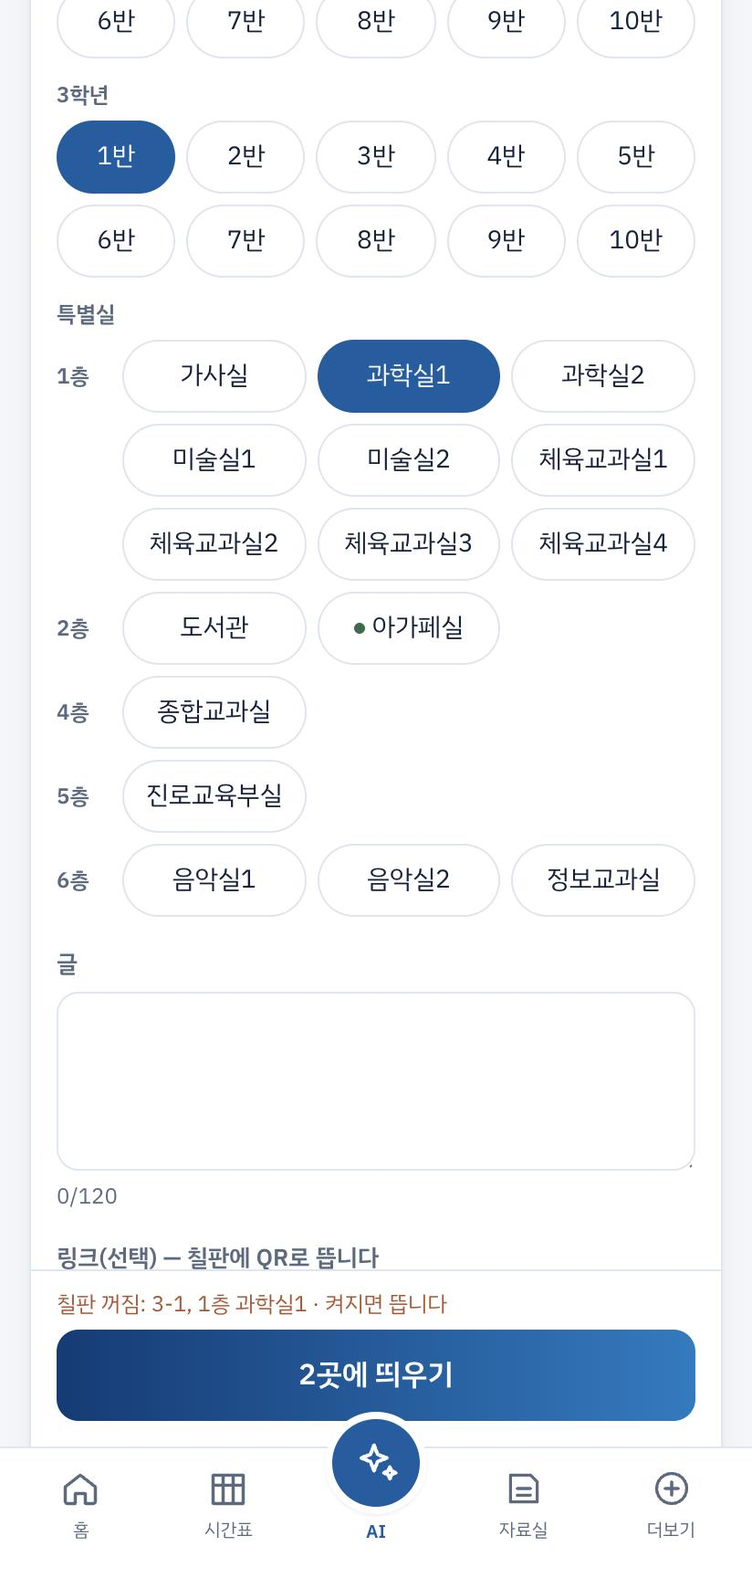
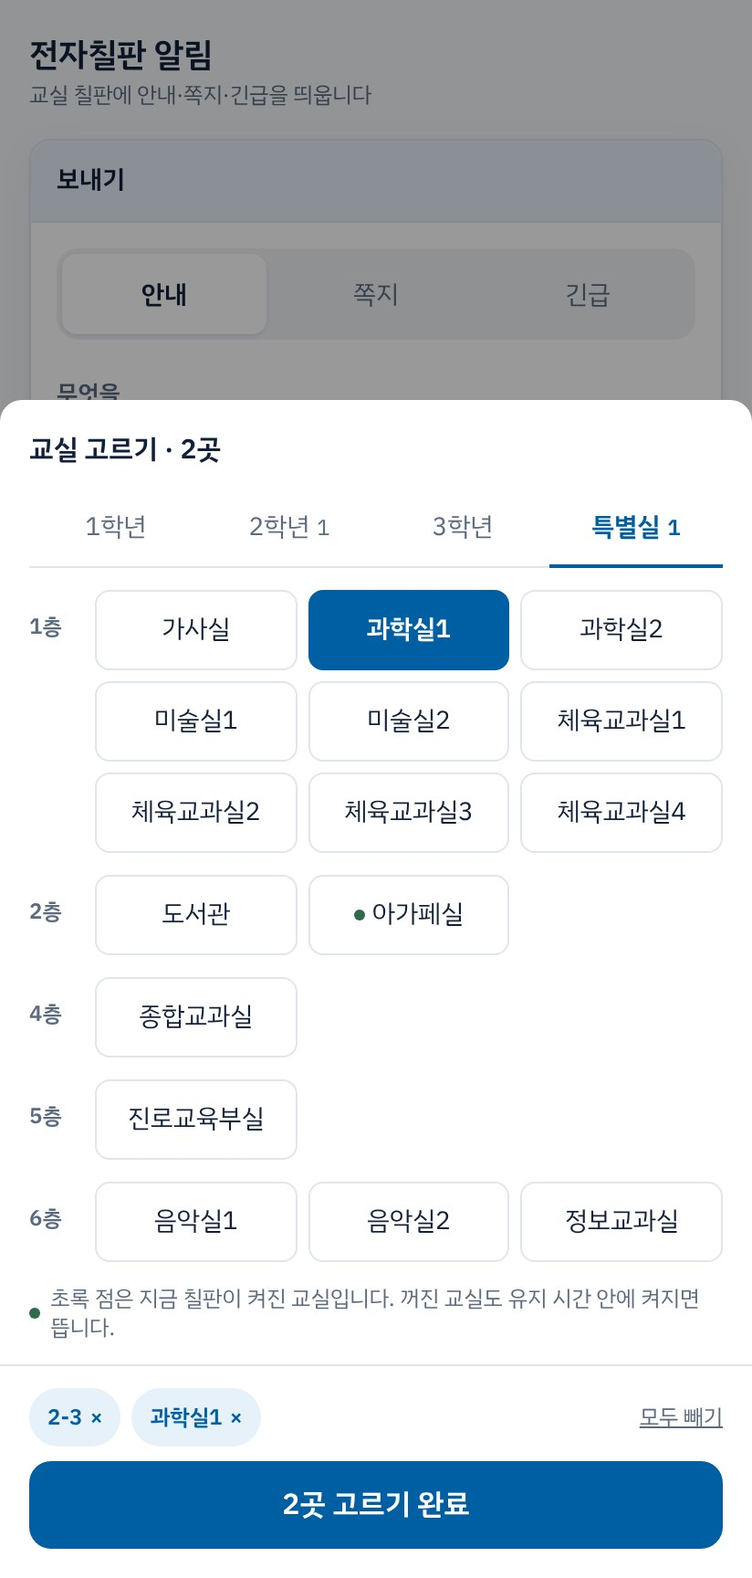
전자칠판 새 보내기 화면 반영(10월 12일): 무엇을 → 어디에 → 보내기, 「내 반」 기본, 직접 고르기 창, 아침 8:45 「수업교체 알림」 쪽지 · 빼꼼 바뀐 수업은 과목만·수락 대기
- 전자칠판 화면 6장(안내·작은 단추·직접 고르기·쪽지·긴급·나간 알림)을 앱 화면 코드에 예시 데이터를 넣어 다시 그림
- 실습 13을 새 순서로, 쪽지 장면을 「쪽지와 긴급」으로, 칠판 장면의 쪽지를 아침 자동 쪽지로
- 첫 화면 NEW 목록에 새 보내기 화면·아침 쪽지

Claude-Session: https://claude.ai/code/session_01PnRkvZMXyWQ3PDuECRmpn5

diff --git a/scenes.js b/scenes.js
@@ -460,7 +460,7 @@
     '<div style="margin:14px 20px 4px;font:600 13px var(--body);color:#6b7a90">명단</div>' +
     '<div class="card" style="padding:4px 18px"><div class="person" style="border:0"><span>1&nbsp; 김하늘 · 교과</span><b style="color:#1f8a5a">✓ 15:42</b></div><div class="person"><span>2&nbsp; 나 · 교목실</span><span class="muted st">아직</span></div><div class="person"><span>3&nbsp; 박서준 · 교과</span><span class="muted">아직</span></div></div>' +
     '<div style="position:absolute;left:16px;right:16px;top:430px"><div class="btn" data-t="sign" style="position:relative;overflow:hidden">내 서명으로 서명하기<span class="dn" style="position:absolute;inset:0;display:grid;place-items:center;background:#1f8a5a;opacity:0">✓ 서명했습니다</span></div><p style="text-align:center;margin-top:10px;color:#295c9e;font-weight:700">이번만 손으로</p></div>');
-  // 10월 둘째 주에 새로 생긴 화면(캡처 전이라 모형): 빼꼼·넵 마감·넵 속 일정·수업교체 계산하기·전자칠판 쪽지
+  // 10월 둘째 주에 새로 생긴 화면(캡처 전이라 모형): 빼꼼·넵 마감·넵 속 일정·수업교체 계산하기
   function hd(title, link, attr) { return '<div class="row" ' + (attr || "") + '><h4 style="margin:0">' + title + "</h4>" + (link ? '<span class="lk">' + link + "</span>" : "") + "</div>"; }
   function li(tm, txt, pill) { return '<div class="li"><b class="tm">' + tm + "</b><span>" + txt + "</span>" + (pill || "") + "</div>"; }
   M.today = mk('<div class="top"><b>빼꼼</b><span>오늘 학교를 빼꼼 — 공지와 평소 시간표에서 달라진 것</span></div>' +
@@ -469,7 +469,7 @@
     '<p class="dayln">10월 14일 수요일 · 지금 3교시</p>' +
     '<div class="card" data-t="nep">' + hd('내 넵 <span class="cnt">1</span>', "넵") + li("16:30", "2학기 평가계획서 제출", '<span class="pill">제출요청 마감</span>') + "</div>" +
     '<div class="card" data-t="ev">' + hd('특별 일정 <span class="cnt">2</span>', "주간소식") + li("5~6교시", "동아리활동") + li("15:30", "10월 교직원 협의회", '<span class="pill wk">주간소식</span>') + "</div>" +
-    '<div class="card" data-t="chg">' + hd('바뀐 수업 <span class="cnt">2</span>') + li("3교시", "2-3 국어 → 수학 김하늘", '<span class="pill ok">지금</span>') + li("5교시", "1-4 과학", '<span class="pill warn">보강 필요</span>') + "</div>");
+    '<div class="card" data-t="chg">' + hd('바뀐 수업 <span class="cnt">3</span>') + li("3교시", "2-3반 · 국어 → 수학", '<span class="pill ok">지금</span>') + li("5교시", "3-10반 · 과학 → 수학", '<span class="pill gr">수락 대기</span>') + li("6교시", "1-4반 · 과학", '<span class="pill warn">보강 필요</span>') + "</div>");
   M.nepDue = mk('<div class="top"><b style="font-size:20px">‹&nbsp; 넵 보내기</b></div>' +
     '<div class="card"><p class="lbl">유형</p><div class="chips"><span>알림</span><span class="on">확인요청</span><span>업무요청</span><span>제출요청</span></div>' +
     '<p class="lbl">제목</p><div class="inp">2학기 평가계획서 확인</div>' +
@@ -508,13 +508,6 @@
     '<div class="btn" data-t="req">내 서명으로 이 안 요청</div><p class="lk" style="text-align:center;margin-top:8px">이번만 손으로</p>' +
     '<div class="row" style="justify-content:flex-start;gap:8px;margin-top:10px" data-t="tools"><span class="tb">요약 복사</span><span class="tb">신고서</span></div></div>' +
     '<div class="card"><div class="row"><b>2안</b><span class="lk">자세히 보기</span></div></div>');
-  M.boardMemo = mk('<div class="top"><b>전자칠판 알림</b><span>교실 칠판에 안내·긴급을 띄웁니다</span></div>' +
-    '<div class="card"><div class="seg3" style="margin:0 0 12px" data-t="memo"><span>안내</span><span class="on">쪽지</span><span>긴급</span></div>' +
-    '<p class="lbl">대상</p><div class="chips"><span>전체</span><span class="on">1학년</span><span>2학년</span><span>3학년</span><span>교실 고르기</span></div>' +
-    '<p class="lbl">글</p><div class="inp" style="height:62px" data-t="text">점심시간에 반장은 교무실로 와 주세요</div><p class="muted" style="margin-top:4px">19/60</p>' +
-    '<p class="muted" style="margin-top:6px">수업 화면을 가리지 않고 칠판 오른쪽 위에 노란 쪽지로 뜹니다(「띵」 한 번). 학생들도 보니 이름 같은 민감한 내용은 쓰지 마세요.</p>' +
-    '<p class="lbl">유지 시간</p><div class="chips"><span>5분</span><span class="on">10분</span><span>20분</span><span>30분</span></div>' +
-    '<div class="btn" data-t="send">10곳에 쪽지 보내기</div></div>');
 
   // ════════════════════════════════════════════════════════════
   // 0부 · 시작
@@ -608,7 +601,7 @@
     [4, "디지털 서명", "내 서명 등록, 회의 서명부(AI로도), 파일로 서명 받기", 8, true],
     [5, "AI에게 부탁하기", "자료실·드라이브·파일 묻기, 요청 카드, 수업교체 계산", 9],
     [6, "세특 도우미", "과세특 초안 한 명 만들어 보기", 5],
-    [7, "전자칠판·자료실", "칠판 알림(사진·예약·쪽지·시험 화면), 자료 찾고 올리기", 5]
+    [7, "전자칠판·자료실", "새 칠판 보내기 화면, 쪽지·긴급, 자료 찾고 올리기", 5]
   ];
   D.add({
     id: "agenda", part: 0, label: "오늘 순서", kind: "light", min: 0.5, trans: "whip",
@@ -638,7 +631,7 @@
     ["4부", "디지털 서명", "<b>내 서명</b> 한 번 등록으로 회의 서명부·파일 서명·수업교체 신고서에 <b>한 번 누르기</b>."],
     ["5부", "AI가 더 많이 읽어요", "<b>📎 파일·웹 주소</b>, <b>학교 공유 드라이브</b>, 주간소식까지. 넵도 <b>카드로 보내기</b>."],
     ["5부", "수업교체 계산하기", "<b>학사일정을 반영</b>해 교체안을 계산하고, 갚는 수업의 <b>날짜를 고릅니다</b>."],
-    ["7부", "전자칠판 알림", "사진·예약·긴급 단추에 이어 <b>쪽지</b>와 <b>▶ 영상 틀기</b>. 시험 날은 <b>시험 화면</b>."]
+    ["7부", "전자칠판 알림", "보내기 화면이 <b>무엇을 → 어디에</b>로 새로. <b>쪽지</b>·<b>▶ 영상 틀기</b>, 아침 8:45 바뀐 수업 쪽지."]
   ];
   D.add({
     id: "whatsnew", part: 0, label: "10월 새 기능", kind: "light", min: 1.2, isNew: true,
@@ -791,13 +784,13 @@
       { t: '요일을 눌러 이번 주 다른 날도 봅니다', s: 1, r: "[data-t=days]" },
       { t: '<span class="q">「내 넵」</span>: 그날 마감인 넵과 넵 속 일정. <b>나에게만</b> 보입니다', s: 1, r: "[data-t=nep]", newf: true },
       { t: '<span class="q">「특별 일정」</span>: 학사일정과 <b>주간소식</b> 일정을 한 목록으로', s: 1, r: "[data-t=ev]" },
-      { t: '<span class="q">「바뀐 수업」</span>: 평소와 달라진 수업만(사유는 안 보임)', g: '<span class="q">「바뀐 수업」</span>: 평소 시간표와 달라진 수업만. 교체 사유는 보이지 않습니다', s: 1, r: "[data-t=chg]" }
+      { t: '<span class="q">「바뀐 수업」</span>: 이름 없이 <b>과목만</b>, 「수락 대기」도', g: '<span class="q">「바뀐 수업」</span>: 평소 시간표와 달라진 수업을 <b>선생님 이름 없이 과목만</b> 보여 줍니다. 상대 선생님 수락을 기다리는 교체는 「수락 대기」로 보이고, 교체 사유는 보이지 않습니다', s: 1, r: "[data-t=chg]" }
     ],
     note: { html: "<span>공지는 이제 빼꼼 맨 위 <b>알림판</b>에. 화면은 모형입니다.</span>" },
     gnote: { html: "<span>공지는 이제 빼꼼 맨 위 <b>알림판</b>에 걸립니다. 열어 두면 1분마다 새로 읽습니다. 화면은 모형이고 일정·이름은 예시입니다.</span>" },
     screens: [shot("more-top"), M.today],
     lt: { tag: "NEW", title: "빼꼼", sub: "현황판 이름이 바뀌고, 공지가 맨 위로 들어왔어요" },
-    notes: "더보기 맨 위의 <b>현황판이 「빼꼼」으로</b> 이름이 바뀌었습니다. 「오늘 학교를 빼꼼」 들여다본다는 뜻입니다. 공지 메뉴는 따로 없고 <b>빼꼼 맨 위 「알림판」</b>에 고정 공지와 하루 안 된 공지가 걸립니다. 그 아래는 그날 나의 넵 마감·넵 속 일정(「내 넵」, 나에게만), 학사일정과 주간소식의 특별 일정, 평소 시간표와 달라진 수업 순서입니다. 누가 왜 자리를 비우는지는 싣지 않습니다. 화면은 모형이고 일정·이름은 예시입니다."
+    notes: "더보기 맨 위의 <b>현황판이 「빼꼼」으로</b> 이름이 바뀌었습니다. 「오늘 학교를 빼꼼」 들여다본다는 뜻입니다. 공지 메뉴는 따로 없고 <b>빼꼼 맨 위 「알림판」</b>에 고정 공지와 하루 안 된 공지가 걸립니다. 그 아래는 그날 나의 넵 마감·넵 속 일정(「내 넵」, 나에게만), 학사일정과 주간소식의 특별 일정, 평소 시간표와 달라진 수업 순서입니다. 바뀐 수업은 <b>선생님 이름 없이 과목만</b> 보이고, 상대 수락을 기다리는 교체는 「수락 대기」로 보입니다. 누가 왜 자리를 비우는지는 싣지 않습니다. 화면은 모형이고 일정·이름은 예시입니다."
   });
 
   D.add({
@@ -1335,50 +1328,52 @@
   opener({
     part: 7, art: "board", min: 5, lines: ["교실에는 한 번에,", "<em>자료는 한 곳에</em>"],
     was: "반마다 다니며 안내, 자료는 여기저기", now: "모든 교실 칠판에 한 번에, 자료는 자료실에",
-    notes: "마지막 7부는 <b>전자칠판 알림</b>과 <b>자료실</b>입니다. 전자칠판에는 사진·예약·긴급 단추·시험 화면에 이어 <b>쪽지</b>와 <b>▶ 영상 틀기</b>가 새로 생겼습니다. 실제 교실에 바로 뜨기 때문에 오늘은 둘러보기만 합니다."
+    notes: "마지막 7부는 <b>전자칠판 알림</b>과 <b>자료실</b>입니다. 전자칠판은 10월 12일에 <b>보내기 화면이 새로</b> 바뀌었고(무엇을 → 어디에 → 보내기), <b>쪽지</b>·<b>▶ 영상 틀기</b>·아침 8:45 「오늘 바뀐 수업」 쪽지가 새로 생겼습니다. 실제 교실에 바로 뜨기 때문에 오늘은 둘러보기만 합니다."
   });
 
   practice({
     id: "p13", part: 7, num: 13, label: "실습 13 · 전자칠판 알림 둘러보기", min: 1.8, practiceMin: 1, trans: "zoom",
-    chips: [{ t: "실습 13 · 전자칠판 알림" }, { t: "둘러보기 1분", c: "ghost" }], title: "전자칠판 알림 화면 둘러보기",
+    chips: [{ t: "실습 13 · 전자칠판 알림" }, { t: "둘러보기 1분", c: "ghost" }], title: "무엇을 쓰고, <em>어디에</em> 보낼지",
     steps: [
       { t: '<span class="k">더보기</span> → <span class="q">「도구」</span> 묶음의 <span class="k">전자칠판 알림</span>', s: 0, r: [17, 337, 378, 56] },
-      { t: '대상: 전체·학년 또는 <span class="q">「교실 고르기」</span>(특별실은 <b>층별로</b>)', s: 1, r: [28, 164, 356, 342], newf: true },
-      { t: '글(줄바꿈 그대로), 링크(칠판에 큰 QR — <b>유튜브면 「▶ 영상 틀기」</b>), <b>사진 3장까지</b>', s: 2, r: [28, 290, 356, 330], newf: true },
-      { t: '<span class="q">「시각 정하기」</span>로 <b>오늘 안 예약</b>, 유지 시간 3~30분', s: 3, r: [28, 260, 356, 194], newf: true },
-      { t: '<b>오늘은 <span class="k">띄우기</span>·<span class="k">예약하기</span>를 누르지 않습니다</b>', g: '<span class="k">…곳에 띄우기</span>를 누르면 고른 교실 칠판에 바로 뜨고, <span class="k">예약하기</span>는 그 시각에 뜹니다', s: 3, r: [31, 497, 350, 50], warn: "실제 교실 칠판에 뜹니다(예약도 그 시각에)" },
-      { t: '<span class="q">「오늘 칠판에 나간 알림」</span>: 점 색으로 도착·확인, <span class="k">예약 취소</span>', s: 3, r: [16, 575, 380, 192] },
-      { t: '<span class="q">「긴급」</span> 탭: 단추를 누르면 문장이 채워집니다(경보음과 함께 뜸)', s: 4, r: [28, 280, 356, 126], newf: true }
+      { t: '<span class="q">안내 · 쪽지 · 긴급</span>을 고르고 <span class="q">「무엇을」</span>에 띄울 말', g: '위쪽에서 <span class="q">안내 · 쪽지 · 긴급</span>을 고르고, <span class="q">「무엇을」</span> 칸에 칠판에 띄울 말을 씁니다(엔터로 줄바꿈)', s: 1, r: [31, 136, 350, 208], newf: true },
+      { t: '작은 단추: <span class="k">링크</span>·<span class="k">사진</span>·<span class="k">예약</span>·유지 시간', g: '작은 단추로 더합니다: <span class="k">링크</span>(칠판에 QR, 유튜브면 「▶ 영상 틀기」) · <span class="k">사진</span>(3장까지) · <span class="k">예약</span>(오늘 안 시각) · 유지 시간. 넣은 것은 단추에 ✓로 보입니다', s: 2, r: [31, 359, 350, 172], newf: true },
+      { t: '<span class="q">「어디에」</span>: 담임은 <b>「내 반」이 기본</b>, 학년 전체·전교실', g: '<span class="q">「어디에」</span>: 담임은 <b>「내 반」이 기본</b>입니다. 1·2·3학년 전체·전교실은 한 번 더 누르면 풀립니다', s: 1, r: [31, 415, 350, 114], newf: true },
+      { t: '<span class="k">직접 고르기</span>: 학년·특별실 탭에서 골라 섞기', g: '<span class="k">직접 고르기</span>: 아래에서 올라오는 창의 학년·특별실 탭에서 교실을 골라 섞습니다. 초록 점은 지금 켜진 칠판입니다', s: 3, r: [16, 269, 380, 470], newf: true },
+      { t: '<b>오늘은 <span class="k">…에 띄우기</span>를 누르지 않습니다</b>', g: '보내기 단추에 어디로 가는지 적혀 있습니다(「2학년 3반에 띄우기」). 누르면 그 교실 칠판에 바로 뜨고, 예약은 그 시각에 뜹니다', s: 1, r: [31, 559, 350, 50], warn: "실제 교실 칠판에 뜹니다(예약도 그 시각에)" },
+      { t: '<span class="q">「오늘 칠판에 나간 알림」</span>: 점 색으로 도착·확인', g: '<span class="q">「오늘 칠판에 나간 알림」</span>: 점 색으로 도착·확인을 보고, 예약은 <span class="k">예약 취소</span>. 아침 8:45 <b>「수업교체 알림」</b> 쪽지도 여기 보입니다', s: 4, r: [17, 251, 378, 502] }
     ],
-    gnote: { html: "<span>쉬는 시간(수업 시작 10분 전~1분 전)에 띄운 안내는 <b>수업 시작 1분 전까지</b> 칠판에서 닫히지 않아요. 긴급 경보음은 보낸 사람이 「소리 끄기」로 끕니다. <b>시험 날</b>에는 그 학년 칠판이 시험 화면(시간표·종료까지 N분·응시 현황)이 되고, 담임은 이 화면 맨 위 카드에서 결시 번호·사유를 넣습니다(학생 이름 없이).</span>" },
+    gnote: { html: "<span>쉬는 시간(수업 시작 10분 전~1분 전)에 띄운 안내는 <b>수업 시작 1분 전까지</b> 칠판에서 닫히지 않아요. 긴급 경보음은 보낸 사람이 「소리 끄기」로 끕니다. <b>시험 날</b>에는 그 학년 칠판이 시험 화면(시간표·종료까지 N분·응시 현황)이 되고, 담임은 이 화면 맨 위 카드에서 결시 번호·사유를 넣습니다(학생 이름 없이). 화면 속 교실·글은 예시입니다.</span>" },
     finale: function (A) { A.lt({ tag: "알아 두기", title: "쉬는 시간에 띄운 안내는 수업 시작 1분 전까지 닫히지 않아요", sub: "수업 시작 10분 전~1분 전에 띄운 안내 · 긴급 경보음은 보낸 사람이 「소리 끄기」로", delay: 300 }); },
-    screens: [shot("more-top"), shot("board-pick"), shot("board-v2"), shot("board-sent"), shot("board-urgent")],
-    notes: "전자칠판 알림은 교실 칠판에 안내·긴급을 띄웁니다. 메뉴가 <b>「도구」 묶음</b>으로 옮겨졌습니다. 교실 고르기에서 특별실은 층별로 나뉘었고, <b>사진을 세 장까지</b> 붙일 수 있으며, <b>「시각 정하기」로 오늘 안의 시각에 뜨도록 예약</b>할 수 있습니다. 쉬는 시간에 띄운 안내는 학생이 터치로 닫지 못하게 수업 시작 1분 전까지 유지되고, 긴급 경보음은 보낸 선생님이 끕니다. 새로 생긴 <b>「쪽지」</b>는 「수업 끝나고 교무실로 전화 부탁드립니다」 같은 60자 이하 짧은 글을 칠판 오른쪽 위에 노란 쪽지로 띄웁니다 — 수업 화면을 가리지 않고 「띵」 한 번만 울립니다. 안내 링크에 <b>유튜브 주소</b>를 넣으면 칠판에 [▶ 영상 틀기]가 함께 떠서 교실에서 바로 틉니다. 오늘은 [띄우기]·[예약하기]·[쪽지 보내기]를 누르지 않습니다."
+    screens: [shot("more-top"), shot("board-v2"), shot("board-options"), shot("board-pick"), shot("board-sent")],
+    lt: { sub: "10월 12일 보내기 화면이 새로 바뀌었어요 · 무엇을 → 어디에 → 보내기" },
+    notes: "전자칠판 보내기 화면이 <b>무엇을 → 어디에 → 보내기</b> 순서로 새로 바뀌었습니다. 먼저 안내·쪽지·긴급을 고르고 띄울 말을 씁니다(엔터로 줄바꿈). 링크·사진·예약·유지 시간은 <b>작은 단추</b>로 접혀 있다가 누르면 펼쳐지고, 넣은 것은 단추에 ✓로 보입니다 — 링크가 <b>유튜브</b>면 칠판에 [▶ 영상 틀기]가 함께 뜹니다. 「어디에」는 <b>담임이면 「내 반」이 기본</b>이고, 학년 전체·전교실, 또는 <b>직접 고르기</b> 창에서 학년·특별실 탭을 오가며 섞어 고릅니다. 보내기 단추에 「2학년 3반에 띄우기」처럼 어디로 가는지 적혀 있어 잘못 보낼 일이 줄었습니다. 아래 「오늘 칠판에 나간 알림」에는 아침 8:45에 저절로 나간 「수업교체 알림」 쪽지도 보입니다. 오늘은 보내지 않습니다."
   });
 
   practice({
-    id: "boardMemo", part: 7, num: null, label: "전자칠판 쪽지 (보기만)", min: 0.8, isNew: true,
-    chips: [{ t: "NEW", c: "new" }, { t: "보기만 · 전자칠판 쪽지", c: "watch" }], title: "짧은 말은 <em>쪽지</em>로",
+    id: "boardMemo", part: 7, num: null, label: "전자칠판 쪽지·긴급 (보기만)", min: 0.9, isNew: true,
+    chips: [{ t: "NEW", c: "new" }, { t: "보기만 · 쪽지와 긴급", c: "watch" }], title: "짧은 말은 <em>쪽지</em>, 위급할 땐 <em>긴급</em>",
     steps: [
-      { t: '위쪽 <span class="q">안내 · 쪽지 · 긴급</span>에서 <span class="k">쪽지</span>', s: 0, r: "[data-t=memo]", newf: true },
-      { t: '<b>60자</b>까지 짧게. 칠판 <b>오른쪽 위 노란 쪽지</b>로 뜨고 「띵」 한 번만 울립니다', s: 0, r: "[data-t=text]", newf: true },
-      { t: '수업 화면을 가리지 않습니다. 학생들도 보니 <b>이름 같은 민감한 내용은 쓰지 않습니다</b>', s: 0 },
-      { t: '<b>오늘은 <span class="k">…곳에 쪽지 보내기</span>를 누르지 않습니다</b>', g: '<span class="k">…곳에 쪽지 보내기</span>를 누르면 고른 교실 칠판에 쪽지가 뜹니다(유지 5~30분)', s: 0, r: "[data-t=send]", warn: "실제 교실 칠판에 쪽지가 뜹니다" }
+      { t: '<span class="k">쪽지</span>: <b>60자</b>까지. 칠판 오른쪽 위 <b>노란 쪽지</b>(「띵」 한 번)', g: '<span class="k">쪽지</span>: <b>60자</b>까지 짧게 씁니다. 칠판 오른쪽 위에 <b>노란 쪽지</b>로 뜨고 「띵」 한 번만 울려 수업 화면을 가리지 않습니다', s: 0, r: [31, 136, 350, 231], newf: true },
+      { t: '학생들도 보니 <b>이름 같은 민감한 내용은 쓰지 않습니다</b>', s: 0, r: [31, 335, 350, 32], z: 1.9 },
+      { t: '<span class="k">긴급</span>: 단추를 누르면 문장이 채워지고, 경보음과 함께 빨갛게', g: '<span class="k">긴급</span>: 지진·화재·전시 대피·외부인 침입·교실 대기 단추를 누르면 문장이 채워집니다. 칠판에는 경보음과 함께 빨간 「긴급」으로 뜹니다', s: 1, r: [31, 234, 350, 236], newf: true },
+      { t: '<b>오늘은 <span class="k">쪽지 보내기</span>·<span class="k">긴급 보내기</span>를 누르지 않습니다</b>', g: '<span class="k">쪽지 보내기</span>·<span class="k">긴급 보내기</span>를 누르면 고른 교실 칠판에 바로 뜹니다(긴급은 한 번 더 확인)', s: 1, r: [31, 707, 350, 50], warn: "실제 교실 칠판에 뜹니다" }
     ],
-    note: { html: "<span>안내가 떠 있으면 쪽지는 그 옆 노란 칸으로, 긴급이 뜨면 끝날 때까지 숨습니다. 화면은 모형입니다.</span>" },
-    screens: [M.boardMemo],
-    lt: { tag: "보기만", title: "전자칠판 쪽지", sub: "보내면 실제 교실 칠판에 떠요", tone: "warn" },
-    notes: "새로 생긴 <b>쪽지</b>입니다. 「수업 끝나고 교무실로 전화 부탁드립니다」처럼 수업 중인 선생님께 짧게 전할 말을 60자까지 써서 보냅니다. 칠판 오른쪽 위에 노란 쪽지로 뜨고 「띵」 한 번만 울려서 수업을 가리지 않습니다. 학생들도 보는 화면이니 이름 같은 민감한 내용은 쓰지 않습니다. 화면은 모형이고, 오늘은 보내지 않습니다."
+    note: { html: "<span>아침 8:45에는 수업이 바뀐 반 칠판에 <b>「오늘 바뀐 수업」 쪽지</b>가 저절로 뜹니다.</span>" },
+    gnote: { html: "<span>아침 8:45에는 그날 수업이 바뀐 반 칠판에 <b>「오늘 바뀐 수업 · 3교시 국어→수학」</b> 같은 쪽지가 저절로 뜹니다(보낸 사람 「수업교체 알림」, 사유는 싣지 않음). 안내가 떠 있으면 쪽지는 그 옆 노란 칸으로, 긴급이 뜨면 끝날 때까지 숨습니다. 화면 속 교실·글은 예시입니다.</span>" },
+    screens: [shot("board-memo"), shot("board-urgent")],
+    lt: { tag: "보기만", title: "쪽지와 긴급", sub: "보내면 실제 교실 칠판에 떠요", tone: "warn" },
+    notes: "<b>쪽지</b>는 「수업 끝나고 교무실로 전화 부탁드립니다」처럼 수업 중인 선생님께 짧게 전할 말을 60자까지 보냅니다. 칠판 오른쪽 위에 노란 쪽지로 뜨고 「띵」 한 번만 울려 수업을 가리지 않습니다. 학생들도 보니 이름 같은 민감한 내용은 쓰지 않습니다. 또 <b>아침 8:45</b>에는 그날 수업이 바뀐 반 칠판에 「오늘 바뀐 수업」 쪽지가 저절로 뜹니다(보낸 사람 「수업교체 알림」). <b>긴급</b>은 상황 단추를 누르면 문장이 채워지고, 칠판에는 경보음과 함께 빨갛게 뜹니다. 오늘은 보내지 않습니다."
   });
 
   D.add({
     id: "boardNew", part: 7, label: "전자칠판에 새로 생긴 것", kind: "light", min: 1.5, isNew: true,
-    notes: "교실 칠판에는 이렇게 뜹니다. <b>사진</b>은 위에 크게, 글은 바로 아래에 뜹니다. 학생 얼굴이 나온 사진은 피해 주세요. 안내의 「안내」 딱지와 보낸 사람 줄은 노랗게 바뀌었고, 글의 줄바꿈도 그대로 보입니다. <b>예약</b>한 안내는 그 시각에 뜨고, 「오늘 칠판에 나간 알림」에서 예약 취소도 됩니다. 새로 생긴 <b>쪽지</b>는 수업 화면을 가리지 않고 오른쪽 위에 노란 쪽지로, 「띵」 한 번만 울립니다(학생들도 보니 이름 같은 민감한 내용은 쓰지 않습니다). 안내 링크가 <b>유튜브</b>면 QR 아래 [▶ 영상 틀기]가 떠서 교실에서 눌러 칠판 안에서 바로 틉니다. <b>긴급</b>은 짧은 이름의 단추 다섯 개 — 지진·화재·전시 대피·외부인 침입·교실 대기 — 를 누르면 문장이 채워지고, 칠판은 상황과 상관없이 빨간 「긴급」 하나로 뜹니다. 마지막으로 <b>시험 날</b>에는 그 학년 교실 칠판이 시험 화면으로 바뀝니다. 시험 시간표와 「종료까지 N분」, 반의 재적·응시·결시가 뜨고, <b>담임 선생님은 「전자칠판 알림」 맨 위 카드에서 번호를 눌러 결시·별도 고사실·제적(유예·전학)을 고르고 사유를 넣습니다</b>(학생 이름은 쓰지 않습니다). 화면의 반·번호는 예시입니다.",
+    notes: "교실 칠판에는 이렇게 뜹니다. <b>사진</b>은 위에 크게, 글은 바로 아래에 뜹니다. 학생 얼굴이 나온 사진은 피해 주세요. 안내의 「안내」 딱지와 보낸 사람 줄은 노랗게 바뀌었고, 글의 줄바꿈도 그대로 보입니다. <b>예약</b>한 안내는 그 시각에 뜨고, 「오늘 칠판에 나간 알림」에서 예약 취소도 됩니다. 새로 생긴 <b>쪽지</b>는 수업 화면을 가리지 않고 오른쪽 위에 노란 쪽지로, 「띵」 한 번만 울립니다(학생들도 보니 이름 같은 민감한 내용은 쓰지 않습니다). 화면의 쪽지는 <b>아침 8:45에 저절로 뜨는 「오늘 바뀐 수업」 쪽지</b>입니다 — 그날 수업이 바뀐 반 칠판에만, 사유 없이 뜹니다. 안내 링크가 <b>유튜브</b>면 QR 아래 [▶ 영상 틀기]가 떠서 교실에서 눌러 칠판 안에서 바로 틉니다. <b>긴급</b>은 짧은 이름의 단추 다섯 개 — 지진·화재·전시 대피·외부인 침입·교실 대기 — 를 누르면 문장이 채워지고, 칠판은 상황과 상관없이 빨간 「긴급」 하나로 뜹니다. 마지막으로 <b>시험 날</b>에는 그 학년 교실 칠판이 시험 화면으로 바뀝니다. 시험 시간표와 「종료까지 N분」, 반의 재적·응시·결시가 뜨고, <b>담임 선생님은 「전자칠판 알림」 맨 위 카드에서 번호를 눌러 결시·별도 고사실·제적(유예·전학)을 고르고 사유를 넣습니다</b>(학생 이름은 쓰지 않습니다). 화면의 반·번호는 예시입니다.",
     html: '<div class="chiprow"><span class="chip new">NEW</span><span class="chip ghost">교실 칠판</span></div><h2 class="title" style="width:860px">교실 칠판에는 <em>이렇게</em> 뜹니다</h2>' +
       '<div class="abs bnl">' +
         '<div class="card c" data-k="0"><span class="tg">사진</span><b>사진 3장까지</b><p>위에 크게, 글은 바로 아래. 학생 얼굴이 나온 사진은 피해 주세요.</p></div>' +
         '<div class="card c" data-k="1"><span class="tg">예약</span><b>오늘 안 시각에 띄우기</b><p>「띄울 때 → 시각 정하기」. 나간 알림에서 <b>예약 취소</b>.</p></div>' +
-        '<div class="card c" data-k="2"><span class="tg n">쪽지 · NEW</span><b>오른쪽 위 노란 쪽지</b><p><b>60자</b>까지, 「띵」 한 번. 수업 화면을 가리지 않습니다.</p></div>' +
+        '<div class="card c" data-k="2"><span class="tg n">쪽지 · NEW</span><b>오른쪽 위 노란 쪽지</b><p><b>60자</b>까지, 「띵」 한 번. 아침 8:45엔 <b>바뀐 수업</b> 쪽지가 저절로.</p></div>' +
         '<div class="card c" data-k="3"><span class="tg n">영상 · NEW</span><b>▶ 영상 틀기</b><p>안내 링크에 <b>유튜브 주소</b>를 넣으면 칠판에서 눌러 바로 틉니다.</p></div>' +
         '<div class="card c" data-k="4"><span class="tg w">긴급</span><b>단추 다섯 개</b><p class="pre"><i>지진 대피</i><i>화재 대피</i><i>전시 대피</i><i>외부인 침입</i><i>교실 대기</i></p></div>' +
         '<div class="card c" data-k="5"><span class="tg n">시험</span><b>시험 날은 시험 화면</b><p>시간표·종료까지 N분·응시 현황. <b>담임은 결시·별도·제적 번호</b>를 넣습니다(이름 없이).</p></div>' +
@@ -1387,7 +1382,7 @@
         '<div class="st idle"><span class="rm">2학년 3반</span><b class="mono">10:12</b><small>10월 14일 수요일</small></div>' +
         '<div class="st note"><span class="hd">안내</span><div class="ph"><i></i><i></i><i></i></div><p>체육대회 반 사진입니다. 마음에 드는 사진 번호를 반장에게 알려 주세요.</p><small>홍길동 선생님 · 10:12 · 눌러서 확인</small></div>' +
         '<div class="st sch"><span class="rm">2학년 3반</span><b class="mono">14:19</b><span class="chipy">14:20에 뜸 · 예약</span></div>' +
-        '<div class="st memo"><div class="ls"><b>3. 일차함수의 그래프</b><i style="width:92%"></i><i style="width:78%"></i><i style="width:85%"></i><i style="width:60%"></i></div><div class="yn"><small>쪽지 · 홍길동 · 10:12</small><p>수업 끝나고 교무실로 전화 부탁드립니다</p></div></div>' +
+        '<div class="st memo"><div class="ls"><b>3. 일차함수의 그래프</b><i style="width:92%"></i><i style="width:78%"></i><i style="width:85%"></i><i style="width:60%"></i></div><div class="yn"><small>쪽지 · 수업교체 알림 · 08:45</small><p>오늘 바뀐 수업 · 3교시 국어→수학</p></div></div>' +
         '<div class="st vid"><span class="hd">안내</span><div class="qrw"><img src="img/qr.svg" alt=""><span class="play">▶ 영상 틀기</span></div><div><p>학급회의 전에 이 영상을 함께 봅니다.</p><small>홍길동 선생님 · 10:12</small></div></div>' +
         '<div class="st urg"><span class="hd">긴급</span><p>지진이 발생했습니다. 책상 아래로 대피하고 선생님 지시를 기다리세요.</p><small>홍길동 선생님 · 10:12</small></div>' +
         '<div class="st exam"><div class="top"><span><em>2학년 3반</em> · 2학기 중간고사</span><small class="mono">10/14 10:33</small></div>' +

diff --git a/index.html b/index.html
@@ -106,7 +106,9 @@ main { max-width: 1040px; margin: -26px auto 0; padding: 0 16px 60px; position: 
   <section class="new">
     <h2><span class="nw">NEW</span> 10월 둘째 주에 바뀐 것</h2>
     <ul>
-      <li><a href="guide.html#today">현황판이 「빼꼼」으로 — 공지도 빼꼼 맨 위 알림판에</a>, <a href="guide.html#home">홈은 「오늘 알림」 카드</a></li>
+      <li><a href="guide.html#p13">전자칠판 보내기 화면 새로: 무엇을 → 어디에(담임은 「내 반」 기본) → 보내기</a></li>
+      <li><a href="guide.html#boardMemo">아침 8:45 수업이 바뀐 반 칠판에 「오늘 바뀐 수업」 쪽지</a></li>
+      <li><a href="guide.html#today">현황판이 「빼꼼」으로 — 공지도 빼꼼 맨 위 알림판에, 바뀐 수업은 이름 없이 과목만</a>, <a href="guide.html#home">홈은 「오늘 알림」 카드</a></li>
       <li><a href="guide.html#p3">아침·점심 알림 맨 위에 나의 「내 줄」</a></li>
       <li><a href="guide.html#p4">시간표 칸에 학사일정·주간소식 띠(누르면 전체 글)</a></li>
       <li><a href="guide.html#nepDue">넵 마감·넵 속 일정이 받는 분 일정·빼꼼에</a></li>
